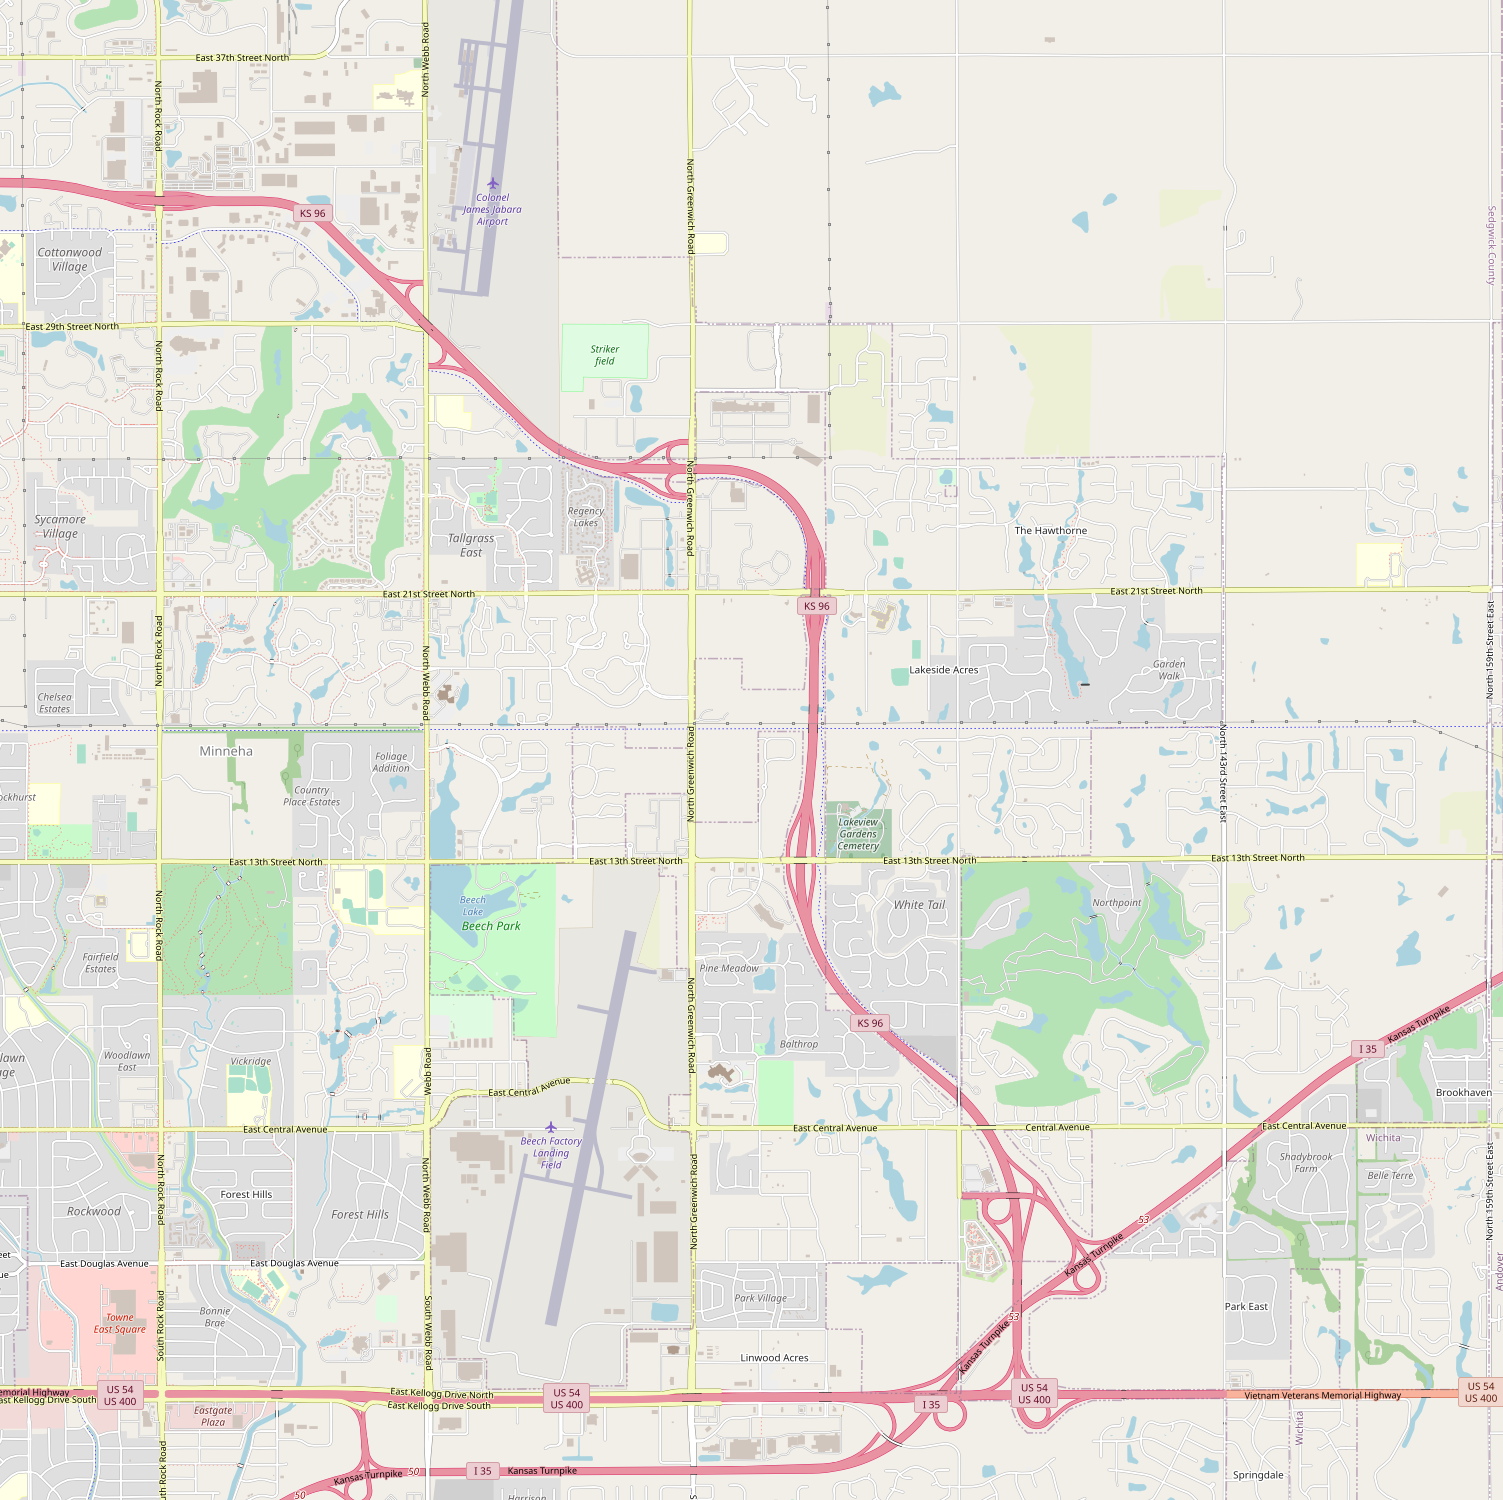
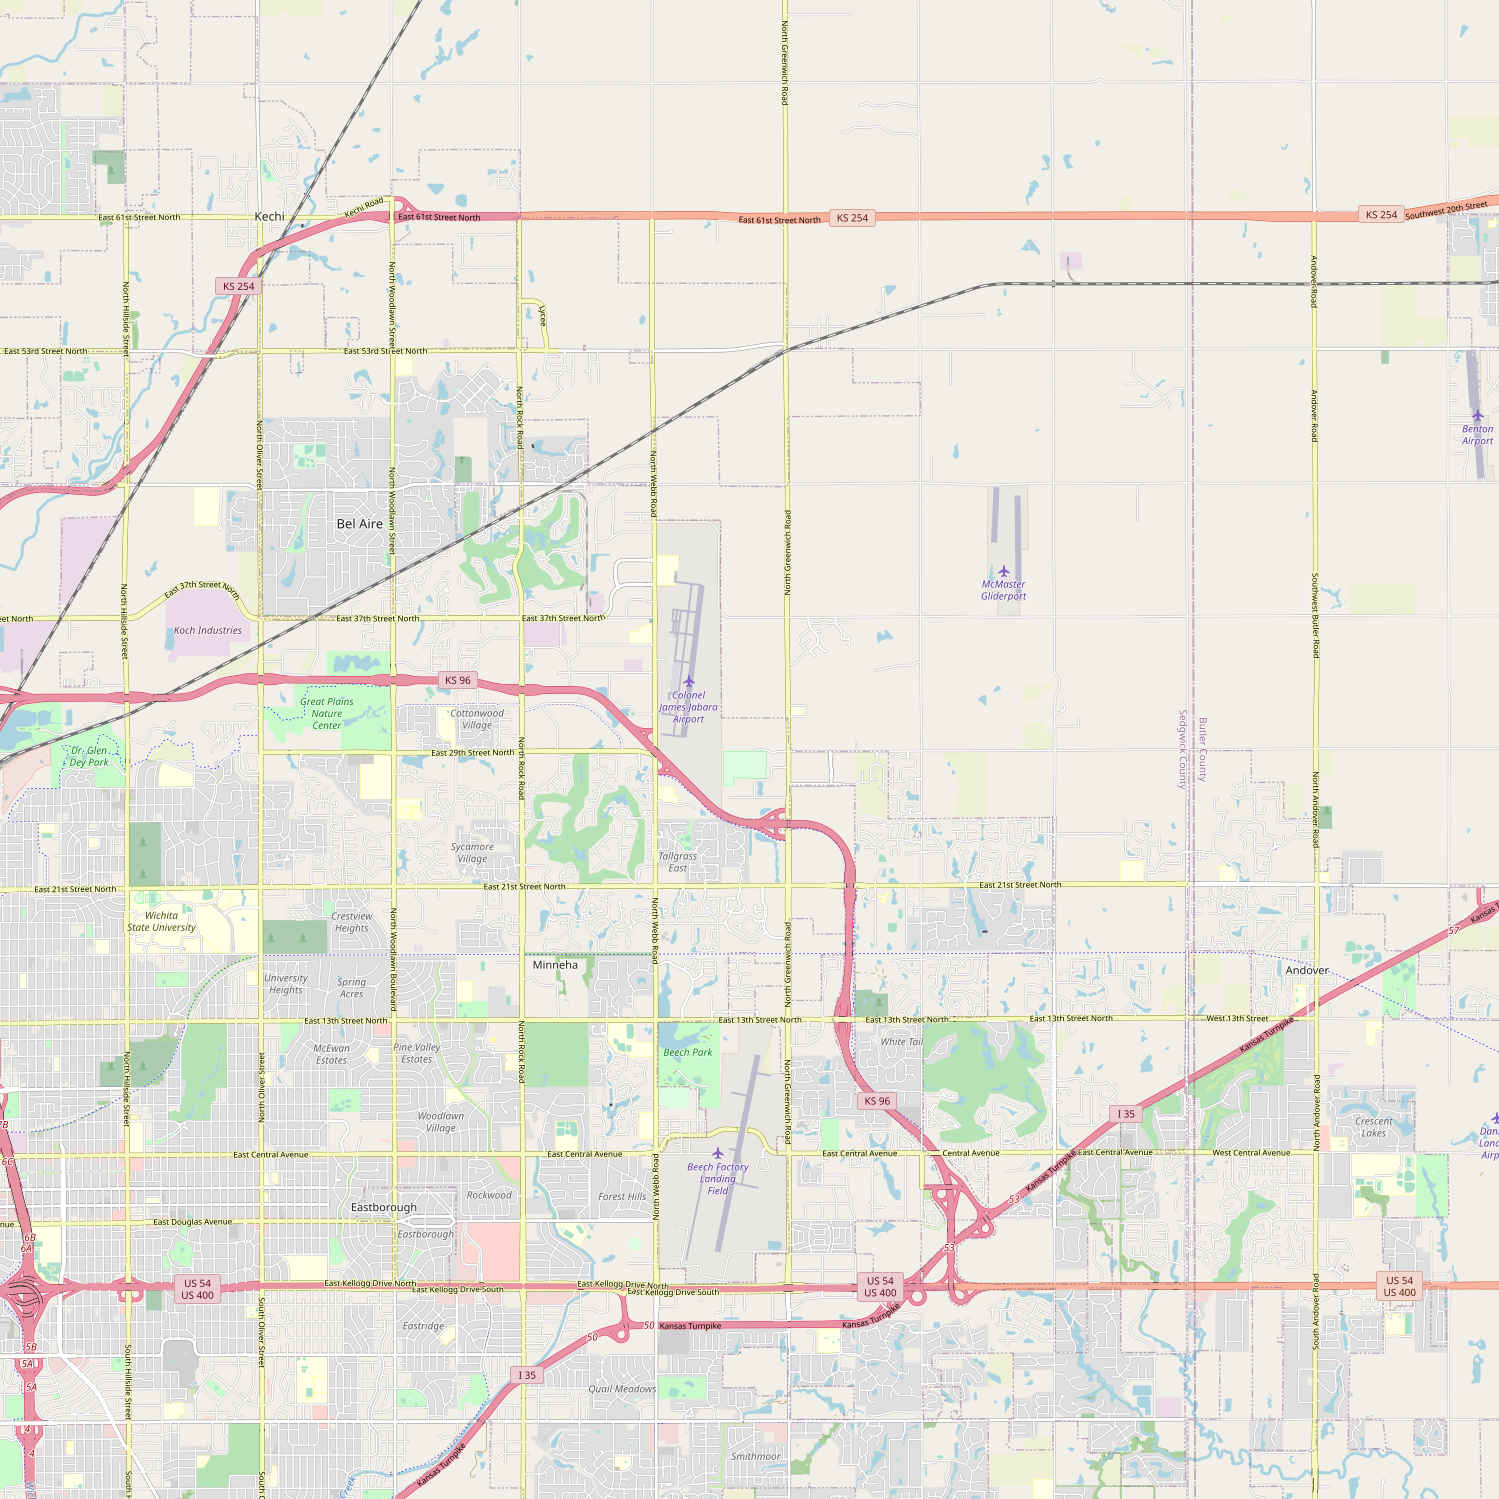
Add street map images
Closes GH-16

diff --git a/lib/data_config.dart b/lib/data_config.dart
@@ -44,7 +44,7 @@ class DataConfig {
       number: 49,
       name: 'Stryker',
       fieldMap: 'img/Fields49.svg',
-      streetMap: 'img/osm_region49_1500sq.png',
+      streetMap: 'img/osm_region49_1500sq_mk.png',
       lat: 37.737437,
       lon: -97.213361,
     ),
@@ -53,7 +53,7 @@ class DataConfig {
       number: 105,
       name: 'Southview',
       fieldMap: 'img/Fields105.svg',
-      streetMap: 'img/osm_region49_1500sq.png',
+      streetMap: 'img/osm_region105_1500sq_mk.png',
       lat: 37.611328,
       lon: -97.367567,
     ),
@@ -62,16 +62,16 @@ class DataConfig {
       number: 208,
       name: 'West Wichita',
       fieldMap: 'img/Fields208.svg',
-      streetMap: 'img/osm_region49_1500sq.png',
-      lat: 37.842481,
-      lon: -97.372607,
+      streetMap: 'img/osm_region208_1500sq_mk.png',
+      lat: 37.71362,
+      lon: -97.42445,
     ),
     Region(
       id: 5,
       number: 253,
       name: 'Valley Center',
       fieldMap: 'img/Fields253.svg',
-      streetMap: 'img/osm_region49_1500sq.png',
+      streetMap: 'img/osm_region253_1500sq_mk.png',
       lat: 37.843271,
       lon: -97.365568,
     ),
@@ -80,7 +80,7 @@ class DataConfig {
       number: 491,
       name: 'Clearwater',
       fieldMap: 'img/Fields491.svg',
-      streetMap: 'img/osm_region49_1500sq.png',
+      streetMap: 'img/osm_region491_1500sq_mk.png',
       lat: 37.503879,
       lon: -97.490616,
     ),

diff --git a/test/models/region_test.dart b/test/models/region_test.dart
@@ -1,6 +1,7 @@
 @Tags(['model'])
 
 import 'package:ayso_ks/models/region.dart';
+import 'package:flutter/services.dart';
 import 'package:flutter_test/flutter_test.dart';
 
 void main() {
@@ -58,6 +59,16 @@ void main() {
       }
     });
 
-    //TODO? test('map files exist in assets', () {});
+    test('street map files exist in assets', () async {
+      TestWidgetsFlutterBinding.ensureInitialized();
+
+      final streetMaps = Region.REGIONS.map((e) => e.streetMap).toSet();
+      expect(streetMaps, hasLength(Region.REGIONS.length));
+
+      for (final file in streetMaps) {
+        // Will throw if not present
+        expect(await rootBundle.load(file), isNotNull);
+      }
+    });
   });
 }

diff --git a/lib/module/region/street_map_view.dart b/lib/module/region/street_map_view.dart
@@ -25,7 +25,7 @@ class StreetMapView extends StatelessWidget {
         initialScale: 1.0,
         minScale: 1.0,
         maxScale: 1.0,
-        basePosition: Alignment(0.0, -0.9),
+        basePosition: Alignment.center,
       ),
       floatingActionButton: RaisedButton.icon(
         onPressed: () => MapsLauncher.launchCoordinates(
